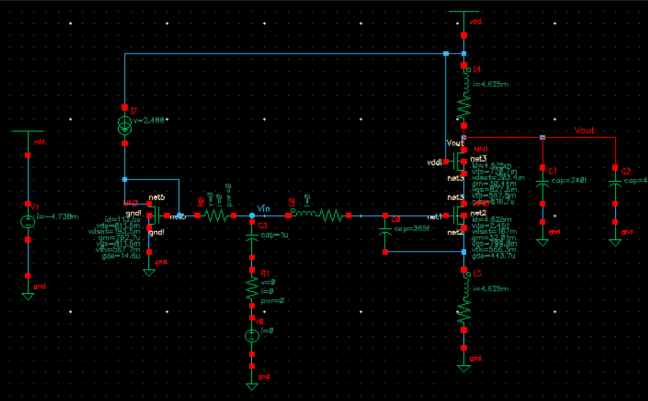
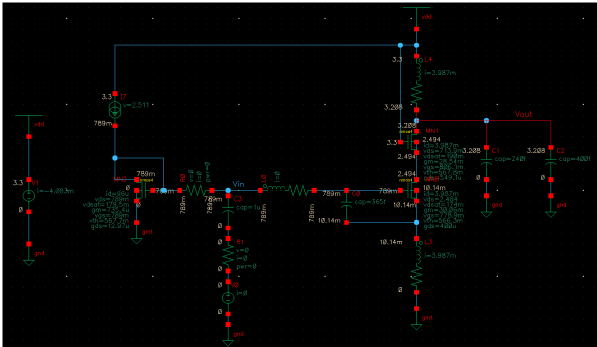
LNA: final tuned operating point
Claude-Session: https://claude.ai/code/session_01Wg8G1W7GeQHazPN6SWSJ9r

Changed region(s): [[0.0, 0.0, 1.0, 1.0], [0.6332, 0.6916, 0.6633, 0.7205]]

diff --git a/README.md b/README.md
@@ -29,7 +29,7 @@ Cascode LNA with inductive source degeneration (L_S), gate inductor (L_G) for th
 - Checked the hand-calculated gain against simulation: including the inductors' finite Q, theory predicts 29.6 dB versus 31.3 dB simulated.
 - Characterized matching with S-parameters and analysed noise source by source.
 
-Final schematic with the DC operating point annotated (input transistor at about 4 mA and 30 mS):
+Final schematic, after re-tuning the reference current, with DC voltages and operating point annotated (input transistor at 3.99 mA and 30 mS):
 
 <img src="img/lna-operating-point.png" alt="Final LNA schematic with DC operating point annotated" width="80%">
 
